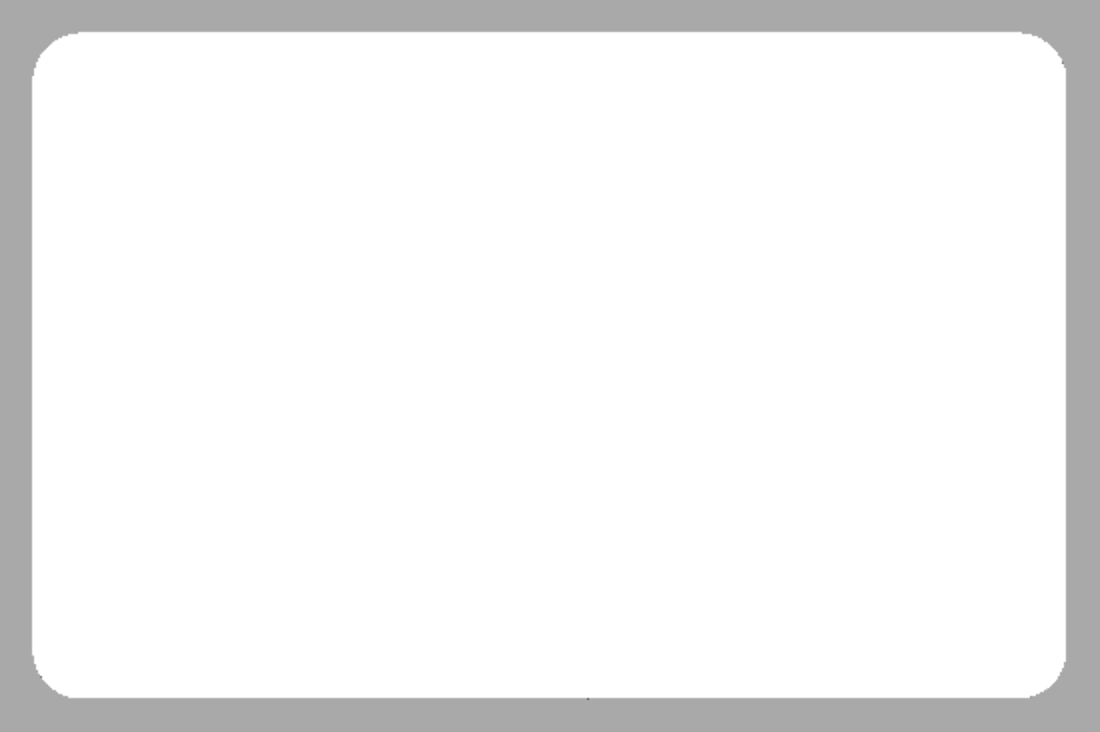
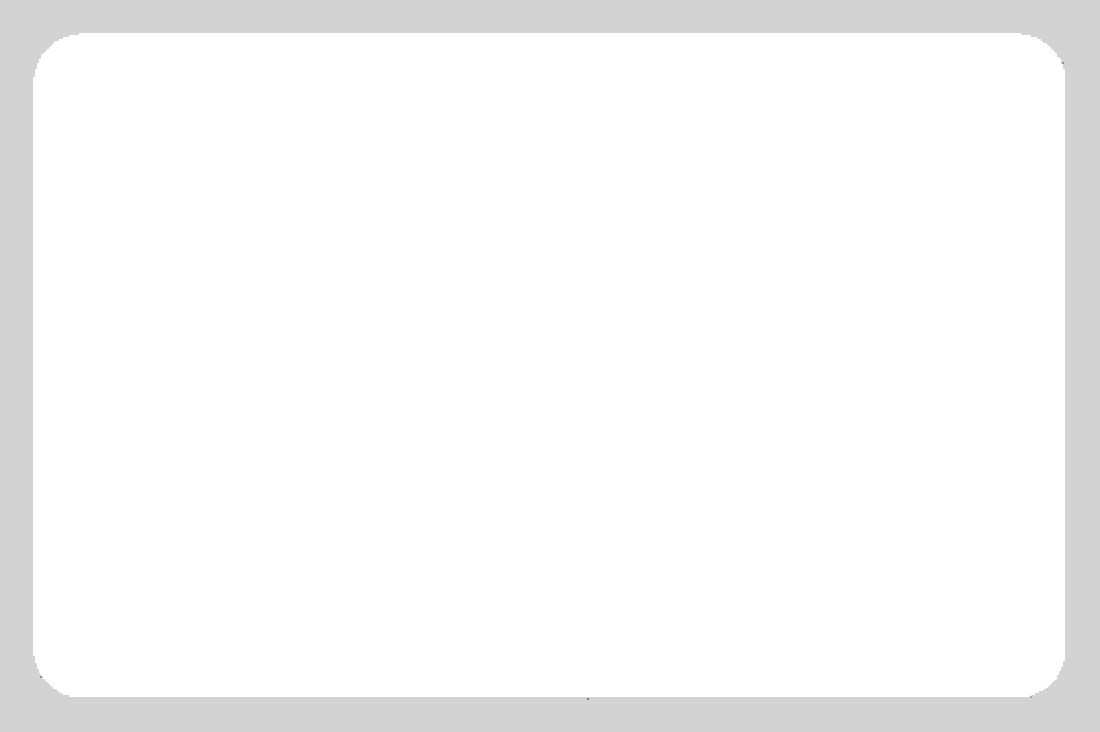
Change to light gray

Changed region(s): [[0.0, 0.0, 1.0, 1.0]]

diff --git a/public/assets/css/additions.css b/public/assets/css/additions.css
@@ -123,35 +123,35 @@
 
 
 .card_image_horizontal {
-	max-height: 400px;
-	max-width: 600px;
+	max-height: 350px;
+	width: 525px;
 }
 
 .card_image_vertical {
-	max-width: 400px;
-	max-height: 600px;
+	max-width: 350px;
+	height: 525px;
 }
 
 .image_frame_horizontal {
-	height: 400px;
-	width: 600px;
+	height: 350px;
+	width: 525px;
 }
 
 .image_frame_vertical {
-	width: 400px;
-	height: 600px;
+	width: 350px;
+	height: 525px;
 }
 
 @media screen and (max-width: 1680px) {
 
 	.card_image_horizontal {
 		max-height: 270px;
-		max-width: 405px;
+		width: 405px;
 	}
 
 	.card_image_vertical {
 		max-width: 270px;
-		max-height: 405px;
+		height: 405px;
 	}
 
 	.image_frame_horizontal {
@@ -171,12 +171,12 @@
 
 	.card_image_horizontal {
 		max-height: 240px;
-		max-width: 360px;
+		width: 360px;
 	}
 
 	.card_image_vertical {
 		max-width: 240px;
-		max-height: 360px;
+		height: 360px;
 	}
 
 	.image_frame_horizontal {
@@ -195,12 +195,12 @@
 
 	.card_image_horizontal {
 		max-height: 205px;
-		max-width: 310px;
+		width: 310px;
 	}
 
 	.card_image_vertical {
 		max-width: 205px;
-		max-height: 310px;
+		height: 310px;
 	}
 
 	.image_frame_horizontal {
@@ -220,12 +220,12 @@
 
 	.card_image_horizontal {
 		max-height: 150px;
-		max-width: 230px;
+		width: 230px;
 	}
 
 	.card_image_vertical {
 		max-width: 150px;
-		max-height: 230px;
+		height: 230px;
 	}
 
 	.image_frame_horizontal {
@@ -244,12 +244,12 @@
 
 	.card_image_horizontal {
 		max-height: 100px;
-		max-width: 150px;
+		width: 150px;
 	}
 
 	.card_image_vertical {
 		max-width: 100px;
-		max-height: 150px;
+		height: 150px;
 	}
 
 	.image_frame_horizontal {
@@ -268,12 +268,12 @@
 
 	.card_image_horizontal {
 		max-height: 80px;
-		max-width: 120px;
+		width: 120px;
 	}
 
 	.card_image_vertical {
 		max-width: 80px;
-		max-height: 120px;
+		height: 120px;
 	}
 
 	.image_frame_horizontal {
@@ -289,7 +289,7 @@
 }
 
 .album {
-	background: #A9A9A9;
+	background: #D3D3D3;
 	border-radius: 5px;
 	padding: 2%;
 	margin: 0;
@@ -303,7 +303,7 @@
 } */
 
 .card_stack_img_vertical {
-	max-height: 100%;
+	height: 100%;
 	width: 100%;
   opacity: 1;
 	z-index: 9;

diff --git a/public/assets/js/album.js b/public/assets/js/album.js
@@ -77,7 +77,7 @@ function addPhoto(album, src, obj) {
     cropError = Math.abs(ratio - 1.5);
     orientation = "horizontal";
   } else {
-    cropError = Math.abs(ratio - 1/3);
+    cropError = Math.abs(ratio - 2/3);
     orientation = "vertical";
   }
   if (isCrop && cropError > 0.1) {
@@ -122,7 +122,7 @@ function populateAlbum(result) {
   var photos = result;
   var imgStore = new Object();
   var imgCount = 0;
-
+  album.empty();
   photos.forEach(function(item){
     var img = new Image();
     img.src = item;
@@ -151,7 +151,6 @@ function loadAlbum(link) {
   var result = link.match(regex);
   if (result) {
     document.cookie = "album="+link;
-    album.empty();
     const key = result[1];
     url = albumAPI + key;
     getAlbumAjax(url, populateAlbum);

diff --git a/public/assets/html/crop.html b/public/assets/html/crop.html
@@ -115,7 +115,7 @@
 						<div class="row next_row"></div>
 						<div class="row next_row">
 							<div class="col-md-12">
-								<h4><i class="fa fa-check-square" aria-hidden="true"></i> When all your photos are cropped, you're ready to order!</h4>
+								<!-- <h4><i class="fa fa-check-square" aria-hidden="true"></i> When all your photos are cropped, you're ready to order!</h4> -->
 							</div>
 						</div>
 						<div class="row next_row">

diff --git a/public/assets/html/collect.html b/public/assets/html/collect.html
@@ -69,6 +69,10 @@
 
     <!-- Section -->
     <div id="collect">
+
+
+
+
       <!-- <section class="wrapper style2 noheader">
 				<div class="inner"> -->
 					<!-- <div class="row justify-content-end">
